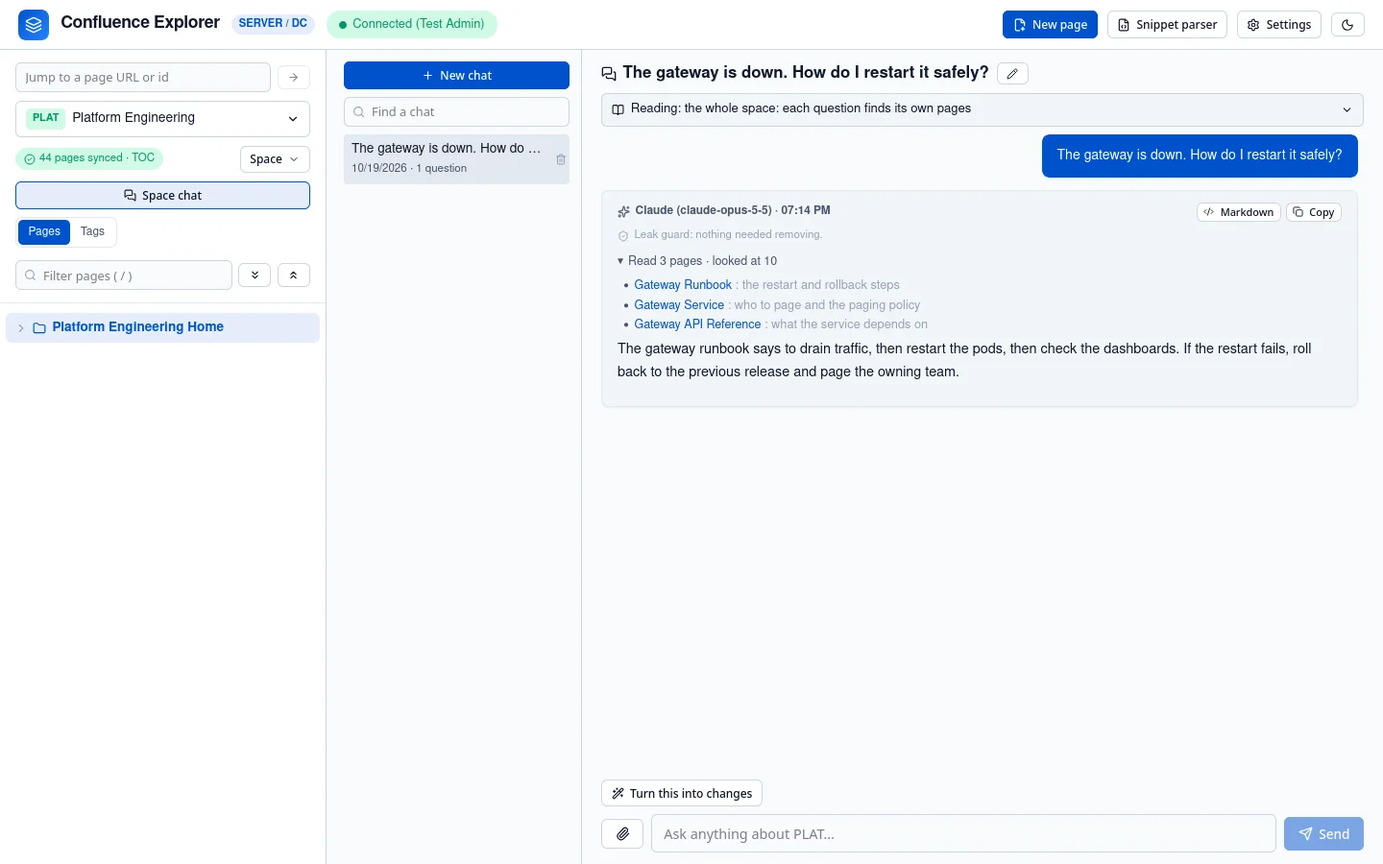
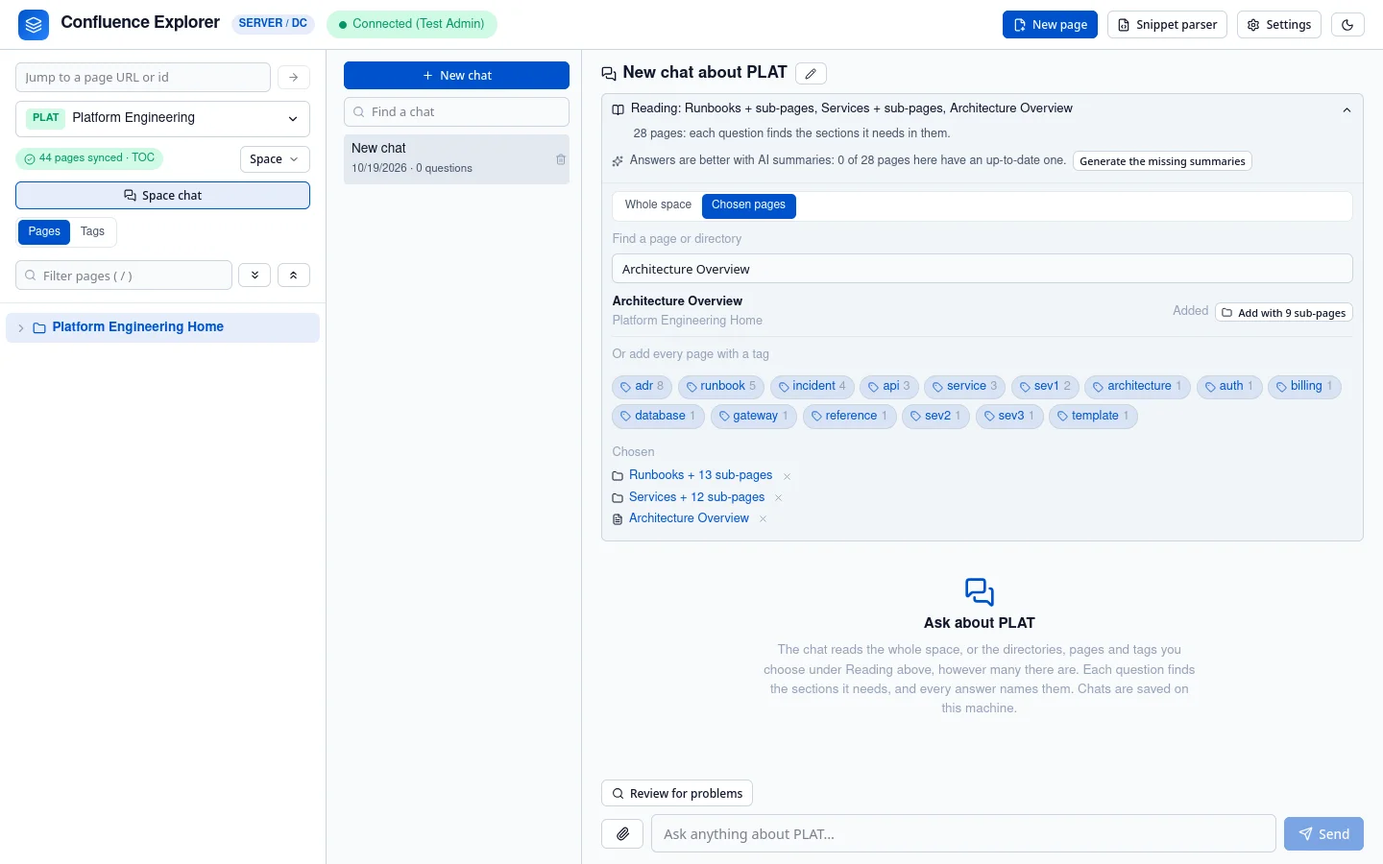
docs: the guides explain chats over any number of pages, embeddings and batched reviews
Asking an AI describes choosing directories, pages and tags, reading in full or by section, and
what summaries and embeddings add. Changing pages covers batched reviews; What leaves your
computer covers embeddings and the section choice. The README and design doc 0007 list the new
routes, and the Space chat screenshot shows the new chooser.

diff --git a/packages/simply-confluence-explorer/README.md b/packages/simply-confluence-explorer/README.md
@@ -164,53 +164,54 @@ readable only by your user account where the operating system allows it (`test/u
 
 ## HTTP routes
 
-| Route                                                 | Description                                                                                                                                                            |
-| ----------------------------------------------------- | ---------------------------------------------------------------------------------------------------------------------------------------------------------------------- |
-| `GET /api/health`                                     | `{ "status": "ok", "version": "<package version>" }`                                                                                                                   |
-| `GET /api/connection`                                 | The Confluence URL, whether a token is saved, and where the connection comes from                                                                                      |
-| `PUT /api/connection`                                 | Saves `{ baseUrl, token }`; the token is never returned                                                                                                                |
-| `GET /api/doctor`                                     | The doctor's report, as `confluence-explorer doctor --json` prints it                                                                                                  |
-| `POST /api/auth/verify`                               | Tests the saved connection, or one typed into Settings, without saving it                                                                                              |
-| `GET /api/spaces`                                     | Every global space; `?query=` filters by key or name                                                                                                                   |
-| `GET /api/spaces/detail/:spaceKey`                    | One space                                                                                                                                                              |
-| `POST /api/spaces/resolve-url`                        | Finds the page id and space key in a pasted address or page id                                                                                                         |
-| `GET /api/spaces/:spaceKey/pages`                     | The space's page tree, or the tree under `?rootPageId=`, without excluded pages                                                                                        |
-| `GET /api/pages/:pageId`                              | One page and its Markdown; an excluded page is a `404`                                                                                                                 |
-| `POST /api/parse`                                     | Converts a pasted storage-format snippet to Markdown                                                                                                                   |
-| `GET`/`POST /api/space-cache/:spaceKey/ignore`        | Reads or saves the space's `.confluenceignore` rules; with `purge: true`, also deletes the synced copies they now exclude                                              |
-| `GET /api/space-cache/cached`                         | The spaces synced to this machine                                                                                                                                      |
-| `POST /api/space-cache/sync`                          | Starts syncing `{ spaceKey, rootPageId? }` to disk; poll `GET /api/space-cache/sync/status/:jobId`                                                                     |
-| `GET /api/space-cache/:spaceKey/toc`                  | The synced space's table of contents                                                                                                                                   |
-| `GET /api/space-cache/:spaceKey/tags`                 | Every tag in the synced space, from labels and AI summaries, with its pages; excluded pages are left out                                                               |
-| `GET /api/space-cache/:spaceKey/zip`                  | The synced space as a ZIP of Markdown and attachments, without excluded pages                                                                                          |
-| `POST /api/space-cache/:spaceKey/pages/:pageId/purge` | Removes a synced page, optionally with what is below it and a rule to keep it away                                                                                     |
-| `POST /api/space-cache/:spaceKey/cache/purge`         | Removes synced copies that are excluded, or whose Markdown was deleted from the folder                                                                                 |
-| `GET`/`PUT /api/ai/settings`                          | The AI provider, model and endpoint; keys can be saved but are never returned                                                                                          |
-| `GET /api/ai/models/:provider`                        | The models the saved key can use                                                                                                                                       |
-| `GET /api/ai/status`, `POST /api/ai/test`             | Whether an AI is set up; a test call that sends no page                                                                                                                |
-| `POST /api/ai/analyze`                                | One question about a page, optionally with its sub-pages; the server sends its own copy of the page it checked, never text the request supplies                        |
-| `POST /api/space-cache/:spaceKey/ai/ask`              | One question about a synced space, answered from its best-matching pages                                                                                               |
-| `/api/ai/sessions/...`                                | Chats: create one on a page, a directory, chosen pages or the whole space; list, read, rename or change what it reads (`PATCH`), delete, upload a file, send a message |
-| `POST /api/ai/sessions/:sessionId/suggest`            | Asks for suggestions, `{ kind: "review" }` or `{ kind: "changes" }`, stored with the answer                                                                            |
-| `POST /api/ai/sessions/:sessionId/turns/:turn/queue`  | Stages an edit of each page the chosen suggestions `{ findings: [indexes] }` of that answer name                                                                       |
-| `POST /api/space-cache/:spaceKey/metadata/generate`   | Starts AI summaries for a synced space, `{ rootPageId }` or `{ pageIds }`; poll `GET /api/space-cache/metadata/status/:jobId`                                          |
-| `POST /api/space-cache/:spaceKey/metadata/coverage`   | How many of the space's, a section's or a list's pages have an AI summary                                                                                              |
-| `POST /api/pages/:pageId/dry-run`                     | Converts a change as a push would, and reports anything Confluence would refuse, without writing                                                                       |
-| `POST /api/pages/:pageId/push`                        | Writes `{ markdown, baseVersion }`; refused with a `409` if the page has changed since `baseVersion`                                                                   |
-| `GET /api/branches/runs/:runId`                       | A queue of staged edits, with each page's edit and decision                                                                                                            |
-| `PATCH /api/branches/runs/:runId/items/:pageId`       | Accepts (optionally with edits), rejects or resets one page's staged edit                                                                                              |
-| `POST /api/branches/runs/:runId/check`, `.../push`    | Dry-runs, or writes, every accepted page, one at a time, each against its own base version                                                                             |
-| `POST /api/drafts`                                    | Starts a draft of `{ spaceKey, parentId, title, notes }` and checks the space for pages that already cover it                                                          |
-| `POST /api/drafts/:sessionId/recheck`                 | Runs the check for similar pages again                                                                                                                                 |
-| `POST /api/drafts/:sessionId/decision`                | Answers the check with `update-existing`, `link` (with pages it found) or `continue`                                                                                   |
-| `POST /api/drafts/:sessionId/messages`                | Asks the AI to help write the draft; a revision it proposes is kept apart until saved                                                                                  |
-| `PUT /api/drafts/:sessionId`                          | Saves the draft's Markdown                                                                                                                                             |
-| `POST /api/drafts/:sessionId/check`, `.../create`     | Dry-runs, or creates, the page under its parent, once                                                                                                                  |
-| `GET`/`POST /api/space-cache/:spaceKey/guard`         | Reads or saves the space's `.confluenceguard` rules; a rule that does not parse is refused                                                                             |
-| `GET`/`PUT /api/gitlab`, `POST /api/gitlab/test`      | Reads, saves or tests the GitLab connection; the token is never returned                                                                                               |
-| `POST /api/drafts/:sessionId/repositories`            | Adds what a GitLab repository says about itself to a draft, as a file                                                                                                  |
-| `/api/*`                                              | Anything else under `/api` is a JSON `404`, never the app shell                                                                                                        |
-| everything else                                       | The built frontend, falling back to `index.html` for client-side routes                                                                                                |
+| Route                                                 | Description                                                                                                                                                                                   |
+| ----------------------------------------------------- | --------------------------------------------------------------------------------------------------------------------------------------------------------------------------------------------- |
+| `GET /api/health`                                     | `{ "status": "ok", "version": "<package version>" }`                                                                                                                                          |
+| `GET /api/connection`                                 | The Confluence URL, whether a token is saved, and where the connection comes from                                                                                                             |
+| `PUT /api/connection`                                 | Saves `{ baseUrl, token }`; the token is never returned                                                                                                                                       |
+| `GET /api/doctor`                                     | The doctor's report, as `confluence-explorer doctor --json` prints it                                                                                                                         |
+| `POST /api/auth/verify`                               | Tests the saved connection, or one typed into Settings, without saving it                                                                                                                     |
+| `GET /api/spaces`                                     | Every global space; `?query=` filters by key or name                                                                                                                                          |
+| `GET /api/spaces/detail/:spaceKey`                    | One space                                                                                                                                                                                     |
+| `POST /api/spaces/resolve-url`                        | Finds the page id and space key in a pasted address or page id                                                                                                                                |
+| `GET /api/spaces/:spaceKey/pages`                     | The space's page tree, or the tree under `?rootPageId=`, without excluded pages                                                                                                               |
+| `GET /api/pages/:pageId`                              | One page and its Markdown; an excluded page is a `404`                                                                                                                                        |
+| `POST /api/parse`                                     | Converts a pasted storage-format snippet to Markdown                                                                                                                                          |
+| `GET`/`POST /api/space-cache/:spaceKey/ignore`        | Reads or saves the space's `.confluenceignore` rules; with `purge: true`, also deletes the synced copies they now exclude                                                                     |
+| `GET /api/space-cache/cached`                         | The spaces synced to this machine                                                                                                                                                             |
+| `POST /api/space-cache/sync`                          | Starts syncing `{ spaceKey, rootPageId? }` to disk; poll `GET /api/space-cache/sync/status/:jobId`                                                                                            |
+| `GET /api/space-cache/:spaceKey/toc`                  | The synced space's table of contents                                                                                                                                                          |
+| `GET /api/space-cache/:spaceKey/tags`                 | Every tag in the synced space, from labels and AI summaries, with its pages; excluded pages are left out                                                                                      |
+| `GET /api/space-cache/:spaceKey/zip`                  | The synced space as a ZIP of Markdown and attachments, without excluded pages                                                                                                                 |
+| `POST /api/space-cache/:spaceKey/pages/:pageId/purge` | Removes a synced page, optionally with what is below it and a rule to keep it away                                                                                                            |
+| `POST /api/space-cache/:spaceKey/cache/purge`         | Removes synced copies that are excluded, or whose Markdown was deleted from the folder                                                                                                        |
+| `GET`/`PUT /api/ai/settings`                          | The AI provider, model and endpoint; keys can be saved but are never returned                                                                                                                 |
+| `GET /api/ai/models/:provider`                        | The models the saved key can use                                                                                                                                                              |
+| `GET /api/ai/status`, `POST /api/ai/test`             | Whether an AI is set up; a test call that sends no page                                                                                                                                       |
+| `POST /api/ai/analyze`                                | One question about a page, optionally with its sub-pages; the server sends its own copy of the page it checked, never text the request supplies                                               |
+| `POST /api/space-cache/:spaceKey/ai/ask`              | One question about a synced space, answered from the sections it retrieves                                                                                                                    |
+| `/api/ai/sessions/...`                                | Chats: create one on a page, a directory, chosen directories, pages and tags, or the whole space; list, read, rename or change what it reads (`PATCH`), delete, upload a file, send a message |
+| `POST /api/ai/sessions/:sessionId/suggest`            | Asks for suggestions, `{ kind: "review" }` or `{ kind: "changes" }`, stored with the answer; too many pages for one request start a batched review, `{ batch }`                               |
+| `POST /api/ai/sessions/:sessionId/turns/:turn/queue`  | Stages an edit of each page the chosen suggestions `{ findings: [indexes] }` of that answer name                                                                                              |
+| `GET /api/ai/batches/:jobId`, `POST .../cancel`       | A batched review's progress, and stopping it; `GET /api/ai/sessions/:sessionId/batch` finds the one running in a chat                                                                         |
+| `POST /api/space-cache/:spaceKey/metadata/generate`   | Starts AI summaries, and embeddings when the provider makes them, `{ rootPageId }` or `{ dirs, pageIds, tags }`; poll `GET /api/space-cache/metadata/status/:jobId`                           |
+| `POST /api/space-cache/:spaceKey/metadata/coverage`   | How many of some pages have an up-to-date AI summary, and whether they fit one request                                                                                                        |
+| `POST /api/pages/:pageId/dry-run`                     | Converts a change as a push would, and reports anything Confluence would refuse, without writing                                                                                              |
+| `POST /api/pages/:pageId/push`                        | Writes `{ markdown, baseVersion }`; refused with a `409` if the page has changed since `baseVersion`                                                                                          |
+| `GET /api/branches/runs/:runId`                       | A queue of staged edits, with each page's edit and decision                                                                                                                                   |
+| `PATCH /api/branches/runs/:runId/items/:pageId`       | Accepts (optionally with edits), rejects or resets one page's staged edit                                                                                                                     |
+| `POST /api/branches/runs/:runId/check`, `.../push`    | Dry-runs, or writes, every accepted page, one at a time, each against its own base version                                                                                                    |
+| `POST /api/drafts`                                    | Starts a draft of `{ spaceKey, parentId, title, notes }` and checks the space for pages that already cover it                                                                                 |
+| `POST /api/drafts/:sessionId/recheck`                 | Runs the check for similar pages again                                                                                                                                                        |
+| `POST /api/drafts/:sessionId/decision`                | Answers the check with `update-existing`, `link` (with pages it found) or `continue`                                                                                                          |
+| `POST /api/drafts/:sessionId/messages`                | Asks the AI to help write the draft; a revision it proposes is kept apart until saved                                                                                                         |
+| `PUT /api/drafts/:sessionId`                          | Saves the draft's Markdown                                                                                                                                                                    |
+| `POST /api/drafts/:sessionId/check`, `.../create`     | Dry-runs, or creates, the page under its parent, once                                                                                                                                         |
+| `GET`/`POST /api/space-cache/:spaceKey/guard`         | Reads or saves the space's `.confluenceguard` rules; a rule that does not parse is refused                                                                                                    |
+| `GET`/`PUT /api/gitlab`, `POST /api/gitlab/test`      | Reads, saves or tests the GitLab connection; the token is never returned                                                                                                                      |
+| `POST /api/drafts/:sessionId/repositories`            | Adds what a GitLab repository says about itself to a draft, as a file                                                                                                                         |
+| `/api/*`                                              | Anything else under `/api` is a JSON `404`, never the app shell                                                                                                                               |
+| everything else                                       | The built frontend, falling back to `index.html` for client-side routes                                                                                                                       |
 
 A page listed in a space's `.confluenceignore` is left out of every tree, together with everything
 below it, and reading it answers `404`, so it never reaches the browser (`test/browse.test.ts`, and

diff --git a/packages/simply-confluence-explorer/docs/guides/asking-ai.md b/packages/simply-confluence-explorer/docs/guides/asking-ai.md
@@ -1,6 +1,6 @@
 ---
 title: Asking an AI
-description: Choose an AI provider, then chat about a page, a directory, pages you choose by tag, or a whole synced space, with files of your own added to the conversation.
+description: Choose an AI provider, then chat about a page, a directory, any mix of directories, pages and tags, or a whole synced space, however many pages that is.
 sidebar:
   order: 4
 ---
@@ -90,38 +90,62 @@ confirm.
 
 ![Space chat answering from the whole space, with the pages it read and why](../images/space-chat.webp)
 
-**Reading** above the conversation says what the chat reads; click it to change it.
+**Reading** above the conversation says what the chat reads; click it to change it. The line under
+it says how many pages that is, and how each question reads them.
 
-- **Whole space**: for each question, the app searches the space's titles, tags, summaries and text
-  for up to 25 likely pages, and asks the AI which of them to read, from their summaries alone. It
-  then reads those pages in full, with the pages earlier answers read, up to the size limit. **Read N
-  pages** on each answer lists them, with why each was chosen. This is the way in when you do not
-  know the space, such as an unfamiliar system during an incident.
-- **Chosen pages**: tick one or more tags to read their pages, or add pages by name, and remove any
-  you do not want. The chat then reads exactly those pages, up to 50.
+- **Whole space**: every page in the space that the exclusion rules allow.
+- **Chosen pages**: any mix of directories, single pages and tags. Type in **Find a page or
+  directory** to see matching pages with where each one sits. **Add page** adds that page alone, and
+  **Add with N sub-pages** adds it with every page under it, so you can choose two directories and a
+  page from another part of the space. **Or add every page with a tag** adds a tag's pages. Each item
+  under **Chosen** is removed with its ×; a directory goes in one click, with its sub-pages. A
+  directory or tag is read as it is when you ask, so a page added under it later is read too.
+
+![Space chat with two directories and a page chosen, and the line saying how they are read](../images/space-chat.webp)
+
+There is no limit on how many pages a chat reads from:
+
+- **When they fit in one request**, every question reads all of them, and the line says so.
+- **When there are more**, each question finds the sections it needs. Pages are split at their
+  headings, and the app ranks the sections by the words of your question and the one before it,
+  and, with a provider that offers embeddings, by meaning as well. The AI then picks the sections
+  worth reading from their headings and summaries alone, and only those are sent, with the ones the
+  last answers read. **Read N sections from M pages** on each answer lists them, with why each was
+  chosen. This is the way in when you do not know the space, such as an unfamiliar system during an
+  incident.
 
 ![The pages tagged runbook in the sidebar's Tags view, each with where it sits](../images/tags-view.webp)
 
 **Chat about** on a tag in the sidebar's **Tags** view opens a chat on that tag's pages. A page's tags
-are its Confluence labels together with the topic tags of its AI summary. Excluded pages are never
+are its Confluence labels together with the topics of its AI summary. Excluded pages are never
 listed, found or read, and a page holding a secret is left out and named.
 
-## Summaries and topics
+## Summaries, topics and embeddings
 
-Every chat works better when its pages have AI summaries: they decide which pages a whole-space
-question reads, and they give pages their topic tags. A chat says how many of its pages have one and
-offers **Generate the missing summaries**, which runs in the background and shows in the header.
+Chats find more when their pages have AI summaries. A summary says what a page is for, gives it
+topics, lists the questions it answers and who it is for, and describes each section in a line, and
+the search reads all of it. Topics are chosen from the ones the space already uses where one fits,
+so pages about one subject share a tag wherever they sit. A chat says how many of its pages have an
+up-to-date summary and offers **Generate the missing summaries**, which runs in the background and
+shows in the header.
 
-The **Details** tab of a page has **Generate summary**, which asks the AI for a short summary, topic
-tags, the kind of document (runbook, policy, guide and so on), and the systems it mentions. On a
-synced page the summary is saved, and appears in the table of contents and helps whole-space
-questions find the page. **Space → Generate AI summaries** does the same for every page in the space
-that has no summary yet.
+With **ChatGPT** or **Gemini (Google API)**, the same run also makes an embedding of each section,
+which lets a question find a section by meaning when it shares none of its words. Claude and the
+Gemini CLI offer no embeddings, so with them the search uses words and summaries alone.
+[What leaves your computer](/guides/data-safety/) says what this sends.
+
+The **Details** tab of a page has **Generate summary** for that page alone, and shows the summary,
+its topics and the questions it answers. **Space → Generate AI summaries** runs for every page that
+has no up-to-date summary. A page that changes in Confluence loses its summary and embeddings at the
+next sync, and **Update AI summaries** redoes only those pages.
 
 ## How this is checked
 
 `test/ai.test.ts` checks how each provider is called, that a key is stored owner-only and never shown,
 and that a missing key or model is reported before anything is sent. `test/sessions.test.ts` checks
-conversations, the history limit, file uploads, chosen pages and how a whole-space question chooses what to read. `test/aiRoutes.test.ts` checks that excluded pages
-are refused and that summaries reach the table of contents. `test/e2e/ai.e2e.ts` asks questions
-against a real Confluence Data Center, with a stand-in for the AI provider.
+conversations, the history limit, file uploads, chosen directories, pages and tags, reading in full
+or by section, and finding a section by meaning. `test/sections.test.ts`, `test/searchIndex.test.ts`,
+`test/metadata.test.ts` and `test/embeddings.test.ts` check how pages are split, searched, summarised
+and embedded. `test/aiRoutes.test.ts` checks that excluded pages are refused and that summaries reach
+the table of contents. `test/e2e/ai.e2e.ts` asks questions against a real Confluence Data Center,
+with a stand-in for the AI provider.

diff --git a/packages/simply-confluence-explorer/docs/guides/data-safety.md b/packages/simply-confluence-explorer/docs/guides/data-safety.md
@@ -98,19 +98,31 @@ Each rule is a regular expression, and matching is case-sensitive. A rule that d
 refused when you save it, with the line number. The rules live in `.confluenceguard` in the space's
 folder.
 
-## What a whole-space question sends first
+## What a large chat sends first
 
-Before answering a question about the whole space, the app sends the AI the titles, places in the
-space and AI summaries of up to 25 pages that may help, so it can choose which to read. Only pages the
-exclusion rules allow are among them, and the request passes the leak guard like any other. Text from
-a GitLab repository, added to a new page, is checked by the leak guard too; the exclusion rules do not
-apply to it, because it is not a Confluence page.
+When a chat's pages are too many to send in one request, the app first sends the AI the titles,
+places in the space, headings and AI summaries of up to 40 sections that may help, never their text,
+so it can choose which sections to read. Only pages the exclusion rules allow are among them, and the
+request passes the leak guard like any other. A review of that many pages sends them in batches, each
+checked the same way. Text from a GitLab repository, added to a new page, is checked by the leak
+guard too; the exclusion rules do not apply to it, because it is not a Confluence page.
+
+## Embeddings
+
+With ChatGPT or Gemini (Google API) as the provider, generating AI summaries also sends the text of
+each section of each page to that provider's embedding service, which returns a list of numbers
+describing what the section means. The numbers are stored with the synced copy and let a question
+find a section by meaning. Each question is embedded too, so it can be compared with them. These are
+the same pages a summary already sends in full, and every request passes the leak guard: a section
+holding a secret is not sent at all, personal data is replaced, and excluded pages are never
+included. Claude and the Gemini CLI offer no embeddings, so with them nothing extra is sent.
 
 ## A record of what was sent
 
 Every request to an AI adds one line to `data/ai-audit.jsonl` in the app's data folder: when it was
 sent, to which provider, for which space, how many characters, and how many values the guard
-replaced. It never records the content itself.
+replaced. Embedding requests are recorded the same way, with how many sections were sent and how
+many were held back for holding a secret. It never records the content itself.
 
 ## Who can reach the app
 
@@ -126,7 +138,9 @@ who can reach it can use your Confluence token through it.
 
 `test/exclusions.test.ts` checks the rule matching, including everything under an excluded page and
 the over-match described above. `test/aiRoutes.test.ts` checks that an excluded page is refused on
-every AI route. `test/guard.test.ts` holds sample secrets and personal data for every detector, and
+every AI route. `test/embeddings.test.ts` checks that a section holding a secret is never embedded,
+that personal data is replaced, that embedding requests are recorded, and that Claude sends nothing.
+`test/guard.test.ts` holds sample secrets and personal data for every detector, and
 checks that a refusal names the type and line but never the value. `test/security.test.ts` checks
 that requests from other hosts and other sites are refused. `test/e2e/ai.e2e.ts` runs the exclusions
 and the guard against a real Confluence Data Center.

diff --git a/packages/simply-confluence-explorer/docs/guides/changing-pages.md b/packages/simply-confluence-explorer/docs/guides/changing-pages.md
@@ -6,7 +6,8 @@ sidebar:
 ---
 
 Every change Confluence Explorer makes to a page starts in a chat (see
-[Asking an AI](/guides/asking-ai/)): one page, a directory, pages chosen by tag, or the whole space.
+[Asking an AI](/guides/asking-ai/)): one page, a directory, any mix of directories, pages and tags,
+or the whole space.
 You ask for suggestions, tick the ones you agree with, read the edit each page gets, and push only
 what you accept. Nothing changes in Confluence until you confirm a push.
 
@@ -22,6 +23,12 @@ In a chat, ask for them in one of three ways:
   conversation found or agreed. Talk it through first, then turn it into changes.
 
 ![Suggestions from a chat on a tag's pages, two of them ticked](../images/chat-suggestions.webp)
+
+When a chat's pages are too many for one request, **Review for problems** and **Turn this into
+changes** read them in batches instead. Pages that share a topic are read in the same batch, so
+repetition between them is found wherever they sit, and the suggestions from every batch arrive as
+one answer. The chat and the header show which batch is being read, **Stop** ends it with nothing
+kept, and you can work elsewhere in the app meanwhile; the answer is in the chat when you come back.
 
 Each suggestion names the pages it is about; click a name to open the page. Two kinds cannot be
 carried out by editing a page, so they cannot be ticked: a page that should be moved, split or merged,
@@ -82,6 +89,8 @@ Queues are saved on your computer, so they survive restarting the app.
 `test/branchRuns.test.ts` checks that suggestions are stored with the answer and never come from the
 browser, that each edit carries only its own suggestions, that only accepted pages are written, that
 a page changed by someone else is refused while the others are written, that a dry run writes
-nothing, and that a stopped queue stops. `test/pagePush.test.ts` checks the version check and that a
+nothing, and that a stopped queue stops. `test/corpusReview.test.ts` and `test/sessions.test.ts`
+check that a large review keeps related pages in one batch, leaves out a page holding a secret,
+merges the suggestions, and keeps nothing when stopped. `test/pagePush.test.ts` checks the version check and that a
 page with an image or a page link is refused. `test/e2e/branches.e2e.ts` queues and pushes an edit
 against a real Confluence Data Center.

diff --git a/packages/simply-confluence-explorer/docs/guides/syncing-a-space.md b/packages/simply-confluence-explorer/docs/guides/syncing-a-space.md
@@ -86,12 +86,15 @@ This is also why some pages cannot be pushed back from Markdown; see
 topics once those exist. Click a title to open the page. The same table is saved as `TOC.md` and
 `toc.json` in the space's folder, so other tools can use it.
 
-**Generate AI summaries** in the same menu asks your AI to summarise each synced page, one at a time,
-and add topic tags. It keeps going while you open other pages: the header shows how far it has got,
-and clicking it takes you back. Starting it again while it runs shows the same run rather than
-starting a second one. You can pause it and come back later. It only summarises pages that do not have a
-summary yet; once every page has one, the menu says so; to redo the summary of one page, use **Regenerate** on that page's **Details** tab. A
-page's summary is removed when a sync downloads a newer version of it, so it is never out of date.
+**Generate AI summaries** in the same menu asks your AI to summarise each synced page, one at a time:
+what it is for, its topics, the questions it answers, and a line on each section. With a provider
+that offers embeddings, it embeds each section too (see [Asking an AI](/guides/asking-ai/)). It keeps
+going while you open other pages: the header shows how far it has got, and clicking it takes you
+back. Starting it again while it runs shows the same run rather than starting a second one. You can
+pause it and come back later. It only does pages without an up-to-date summary; once every page has
+one, the menu says so; to redo one page, use **Regenerate** on its **Details** tab. A page's summary
+and embeddings are removed when a sync downloads a newer version of it, so they are never out of
+date, and **Update AI summaries** redoes just those pages.
 
 ![The Details tab, with a page's AI summary and its frontmatter](../images/details.webp)
 
@@ -122,6 +125,7 @@ spaces/PLAT/
   pages/.../Title_attachments/   each page's attachments
   pages_cache/           each page as Confluence sent it
   metadata/              AI summaries
+  vectors/               section embeddings, when the provider makes them
   TOC.md, toc.json       the table of contents
   manifest.json          when the space was last synced
   .confluenceignore      the space's exclusion rules

diff --git a/docs/design/0007-reviews-tags-and-space-chat.md b/docs/design/0007-reviews-tags-and-space-chat.md
@@ -30,6 +30,8 @@ work such as AI summaries lost its progress as soon as the person opened another
 | route                                            | what it does                                                                     |
 | ------------------------------------------------ | -------------------------------------------------------------------------------- |
 | `PATCH /api/ai/sessions/:id`                     | Renames a chat, or changes its context between the whole space and chosen pages. |
+| `POST /api/ai/sessions/:id/suggest`              | Asks for suggestions; too many pages for one request start a batched review.     |
+| `GET /api/ai/batches/:jobId`, `POST .../cancel`  | A batched review's progress, and stopping it.                                    |
 | `POST /api/ai/sessions/:id/turns/:turn/queue`    | Stages an edit of each page the chosen suggestions of that answer name.          |
 | `GET /api/space-cache/:spaceKey/tags`            | Lists each tag with the pages that carry it, leaving out excluded pages.         |
 | `GET /api/space-cache/:spaceKey/sync/active`     | Reports a running sync, so a reloaded browser picks its progress up again.       |
